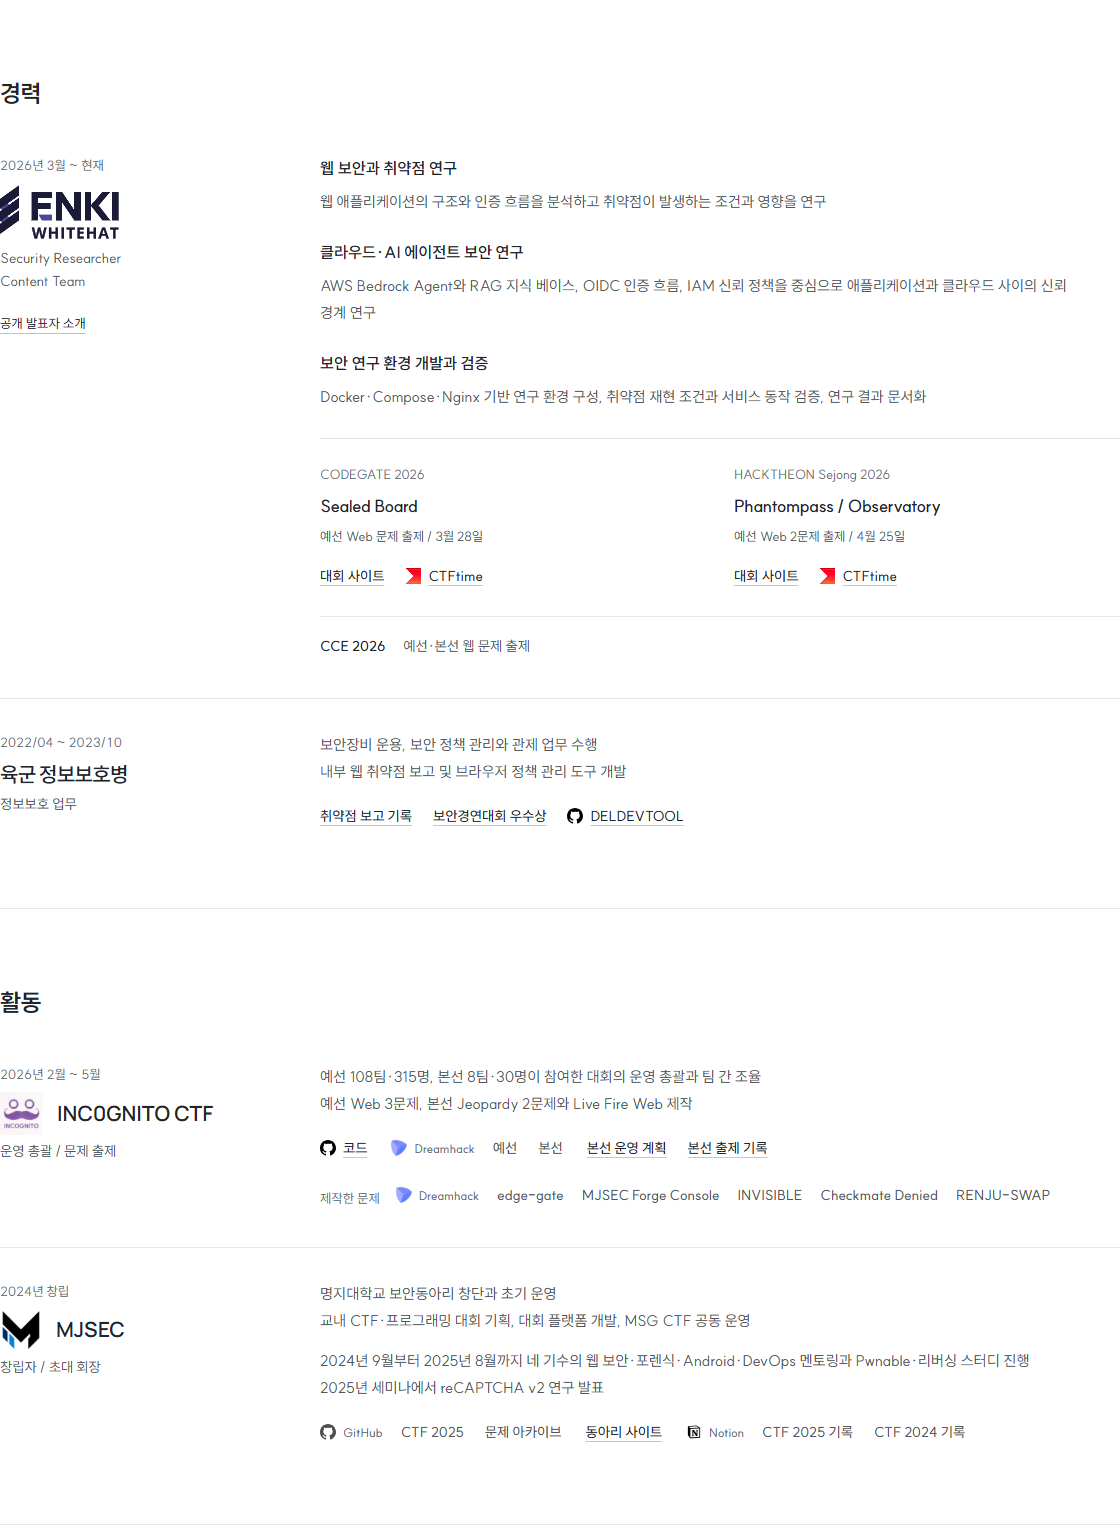
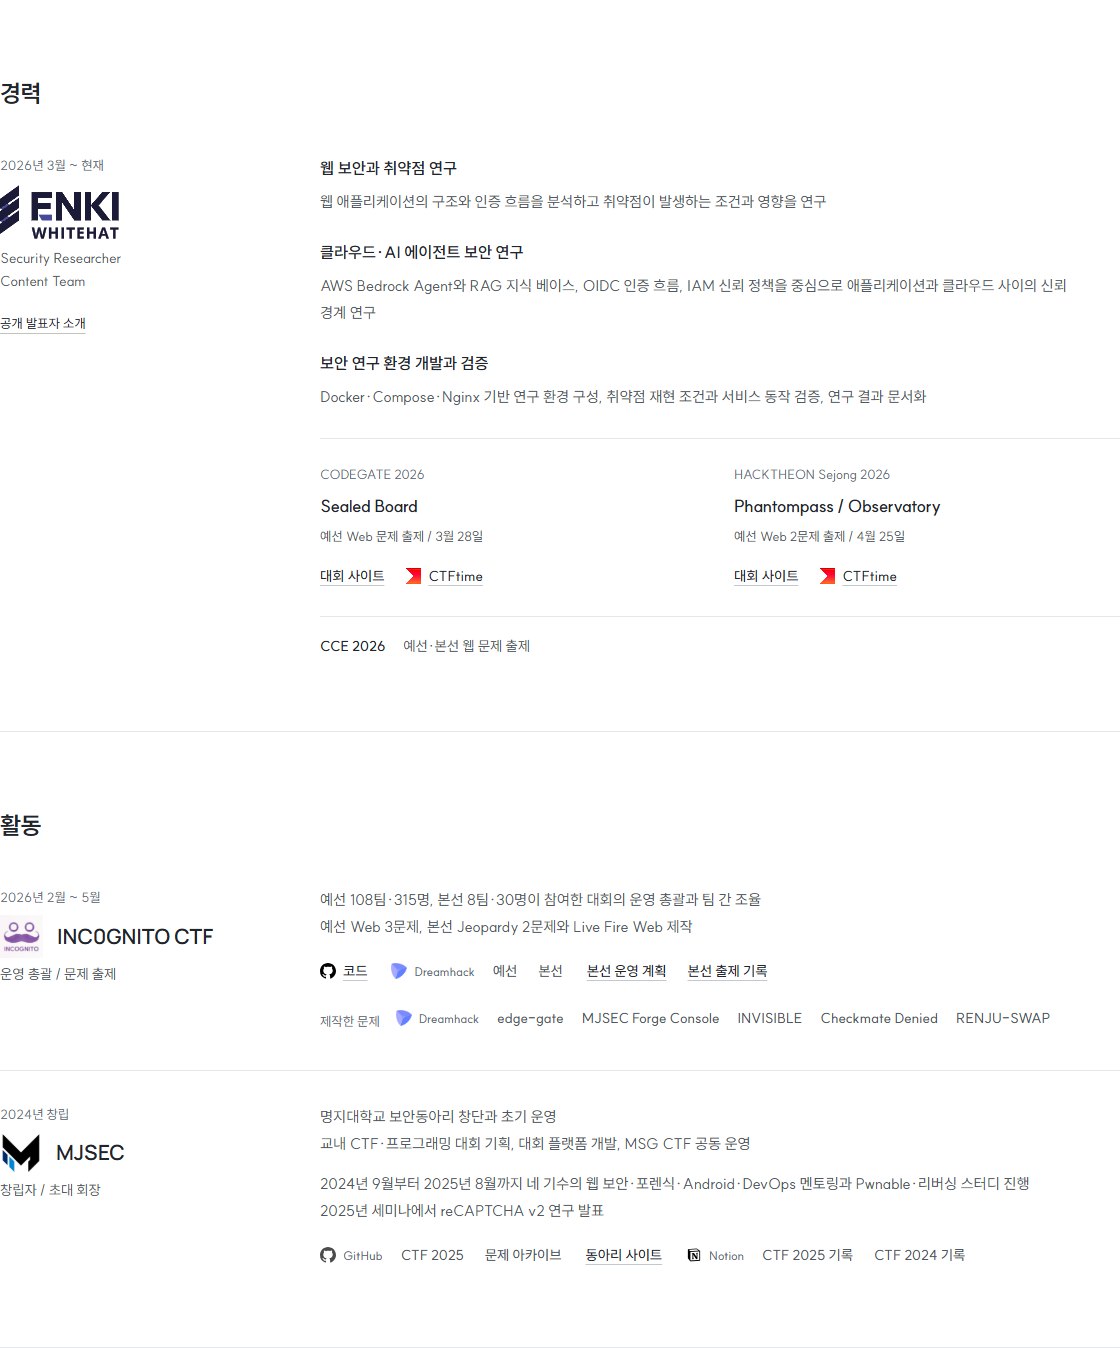
Classify army service separately from professional experience

diff --git a/assets/portfolio.css b/assets/portfolio.css
@@ -141,9 +141,6 @@ a, button, summary { -webkit-tap-highlight-color: transparent; }
 .job:last-child { padding-bottom: 0; }
 .job-heading h3 { font-size: 24px; line-height: 1.4; font-weight: 600; letter-spacing: -.03em; margin: 8px 0; }
 .job-role { color: var(--secondary); font-size: 14px; line-height: 1.7; }
-.job--compact .job-heading h3 { font-size: 21px; margin: 6px 0 4px; }
-.job--compact .job-body > p { font-size: 15px; line-height: 1.8; color: var(--secondary); word-break: keep-all; }
-.job--compact .link-row { margin-top: 11px; }
 .text-link { display: inline-flex; align-items: center; min-height: 36px; margin-top: 11px; font-size: 13px; text-decoration-color: #c0c5bb; }
 .workstreams { display: grid; gap: 23px; }
 .workstreams dt { font-size: 16px; font-weight: 600; margin-bottom: 6px; }
@@ -204,6 +201,13 @@ a, button, summary { -webkit-tap-highlight-color: transparent; }
 .education-status { font-size: 13px; font-weight: 500; color: var(--accent); }
 .toolkit dt { font-size: 14px; font-weight: 600; margin-bottom: 5px; }
 .toolkit dd { font-size: 15px; color: var(--secondary); line-height: 1.8; }
+.military-service { display: grid; grid-template-columns: 265px minmax(0, 1fr); gap: 55px; padding-block: 42px; }
+.military-heading h2 { font-size: 24px; font-weight: 700; letter-spacing: -.02em; }
+.military-heading .project-meta { margin-top: 10px; }
+.military-body h3 { font-size: 21px; font-weight: 600; letter-spacing: -.02em; }
+.military-body > p { margin-top: 12px; font-size: 15px; line-height: 1.8; color: var(--secondary); word-break: keep-all; }
+.military-body > .military-role { margin-top: 4px; font-size: 14px; color: var(--muted); }
+.military-body .link-row { margin-top: 11px; }
 .contact { display: flex; justify-content: space-between; align-items: center; gap: 25px; padding: 42px 0; border-bottom: 1px solid var(--line); }
 .contact h2 { font-size: 14px; font-weight: 400; color: var(--muted); margin-bottom: 9px; }
 .contact-email { font-family: var(--font-display); font-size: 30px; line-height: 1.4; letter-spacing: -.025em; text-decoration: none; }
@@ -218,7 +222,7 @@ a, button, summary { -webkit-tap-highlight-color: transparent; }
   .hero h1 { font-size: 66px; }
   .highlights { gap: 35px; }
   .highlights h2 { font-size: 20px; }
-  .job, .activity-row, .team-record { grid-template-columns: 215px minmax(0, 1fr); gap: 35px; }
+  .job, .activity-row, .team-record, .military-service { grid-template-columns: 215px minmax(0, 1fr); gap: 35px; }
   .feature-repositories { grid-template-columns: 90px minmax(0, 1fr); }
   .about-grid { gap: 40px; }
 }
@@ -267,6 +271,8 @@ a, button, summary { -webkit-tap-highlight-color: transparent; }
   .awards-grid .award-result { font-size: 25px; }
   .about-grid { grid-template-columns: 1fr; gap: 35px; }
   .toolkit { padding-top: 28px; border-top: 1px solid var(--line); }
+  .military-service { grid-template-columns: 1fr; gap: 20px; padding-block: 32px; }
+  .military-heading h2 { font-size: 23px; }
   .contact { align-items: flex-start; flex-direction: column; gap: 18px; padding-block: 30px; }
 }
 @media (max-width: 520px) {

diff --git a/index.html b/index.html
@@ -381,15 +381,7 @@
         </div>
       </article>
 
-      <article class="job job--compact" id="military">
-        <div class="job-heading"><p class="project-meta">2022/04 ~ 2023/10</p><h3>ROK Army</h3><p class="job-role">Information security specialist</p></div>
-        <div class="job-body">
-          <p>Operated security appliances, managed security policies and supported monitoring<br> Reported internal web vulnerabilities and developed a browser policy management utility</p>
-          <div class="link-row" aria-label="Related links"><a href="assets/achv-sec-report.png" target="_blank" rel="noopener noreferrer">Security report record</a>
-<a href="assets/award.png" target="_blank" rel="noopener noreferrer">Security competition award</a>
-<a href="https://github.com/jongcoding/DELDEVTOOL" target="_blank" rel="noopener noreferrer" aria-label="DELDEVTOOL / jongcoding/DELDEVTOOL GitHub" title="jongcoding/DELDEVTOOL GitHub" class="github-link github-link--primary"><img class="link-icon" src="assets/brands/github.svg" alt="" width="16" height="16"><span>DELDEVTOOL</span></a></div>
-        </div>
-      </article>
+
     </section>
 
     <section class="section" id="activities" aria-labelledby="activities-title">
@@ -502,6 +494,15 @@
         </dl>
       </div>
     </section>
+      <section class="section military-service" id="military" aria-labelledby="military-title">
+        <div class="military-heading"><h2 id="military-title">Military service</h2><p class="project-meta">2022/04 ~ 2023/10</p></div>
+        <div class="military-body"><h3>ROK Army</h3><p class="military-role">Information security specialist</p>
+          <p>Operated security appliances, managed security policies and supported monitoring<br> Reported internal web vulnerabilities and developed a browser policy management utility</p>
+          <div class="link-row" aria-label="Related links"><a href="assets/achv-sec-report.png" target="_blank" rel="noopener noreferrer">Security report record</a>
+<a href="assets/award.png" target="_blank" rel="noopener noreferrer">Security competition award</a>
+<a href="https://github.com/jongcoding/DELDEVTOOL" target="_blank" rel="noopener noreferrer" aria-label="DELDEVTOOL / jongcoding/DELDEVTOOL GitHub" title="jongcoding/DELDEVTOOL GitHub" class="github-link github-link--primary"><img class="link-icon" src="assets/brands/github.svg" alt="" width="16" height="16"><span>DELDEVTOOL</span></a></div>
+        </div>
+      </section>
     <section class="contact" id="contact" aria-labelledby="contact-title">
       <div><h2 id="contact-title">For research &amp; project conversations</h2><a href="mailto:ialleejy@gmail.com" aria-label="ialleejy@gmail.com" class="contact-email">ialleejy@gmail.com</a></div>
       <div class="link-row" aria-label="Contact &amp; profiles"><a href="https://github.com/jongcoding" target="_blank" rel="noopener noreferrer" aria-label="jongcoding GitHub" title="jongcoding GitHub" class="github-link github-link--primary"><img class="link-icon" src="assets/brands/github.svg" alt="" width="16" height="16"><span>GitHub</span></a>

diff --git a/index_ko.html b/index_ko.html
@@ -381,15 +381,7 @@
         </div>
       </article>
 
-      <article class="job job--compact" id="military">
-        <div class="job-heading"><p class="project-meta">2022/04 ~ 2023/10</p><h3>육군 정보보호병</h3><p class="job-role">정보보호 업무</p></div>
-        <div class="job-body">
-          <p>보안장비 운용, 보안 정책 관리와 관제 업무 수행<br> 내부 웹 취약점 보고 및 브라우저 정책 관리 도구 개발</p>
-          <div class="link-row" aria-label="관련 링크"><a href="assets/achv-sec-report.png" target="_blank" rel="noopener noreferrer">취약점 보고 기록</a>
-<a href="assets/award.png" target="_blank" rel="noopener noreferrer">보안경연대회 우수상</a>
-<a href="https://github.com/jongcoding/DELDEVTOOL" target="_blank" rel="noopener noreferrer" aria-label="DELDEVTOOL / jongcoding/DELDEVTOOL GitHub" title="jongcoding/DELDEVTOOL GitHub" class="github-link github-link--primary"><img class="link-icon" src="assets/brands/github.svg" alt="" width="16" height="16"><span>DELDEVTOOL</span></a></div>
-        </div>
-      </article>
+
     </section>
 
     <section class="section" id="activities" aria-labelledby="activities-title">
@@ -502,6 +494,15 @@
         </dl>
       </div>
     </section>
+      <section class="section military-service" id="military" aria-labelledby="military-title">
+        <div class="military-heading"><h2 id="military-title">병역</h2><p class="project-meta">2022/04 ~ 2023/10</p></div>
+        <div class="military-body"><h3>육군 정보보호병</h3><p class="military-role">정보보호 업무</p>
+          <p>보안장비 운용, 보안 정책 관리와 관제 업무 수행<br> 내부 웹 취약점 보고 및 브라우저 정책 관리 도구 개발</p>
+          <div class="link-row" aria-label="관련 링크"><a href="assets/achv-sec-report.png" target="_blank" rel="noopener noreferrer">취약점 보고 기록</a>
+<a href="assets/award.png" target="_blank" rel="noopener noreferrer">보안경연대회 우수상</a>
+<a href="https://github.com/jongcoding/DELDEVTOOL" target="_blank" rel="noopener noreferrer" aria-label="DELDEVTOOL / jongcoding/DELDEVTOOL GitHub" title="jongcoding/DELDEVTOOL GitHub" class="github-link github-link--primary"><img class="link-icon" src="assets/brands/github.svg" alt="" width="16" height="16"><span>DELDEVTOOL</span></a></div>
+        </div>
+      </section>
     <section class="contact" id="contact" aria-labelledby="contact-title">
       <div><h2 id="contact-title">연구와 프로젝트에 관한 연락</h2><a href="mailto:ialleejy@gmail.com" aria-label="ialleejy@gmail.com" class="contact-email">ialleejy@gmail.com</a></div>
       <div class="link-row" aria-label="연락처와 프로필"><a href="https://github.com/jongcoding" target="_blank" rel="noopener noreferrer" aria-label="jongcoding GitHub" title="jongcoding GitHub" class="github-link github-link--primary"><img class="link-icon" src="assets/brands/github.svg" alt="" width="16" height="16"><span>GitHub</span></a>

diff --git a/docs/content-notes.md b/docs/content-notes.md
@@ -38,7 +38,8 @@ Its authentication wall prevented direct profile review, so the relevant additio
 - Separate the seventh-place qualifier result from finals participation without implying a finals ranking
 - Describe ENKI work through web and cloud security research, vulnerability analysis and research environment engineering
 - Separate Experience from Activities in both the page structure and navigation
-- Keep ENKI WhiteHat and military information-security work under Experience, with INC0GNITO organizing and MJSEC leadership under Activities
+- Keep only ENKI WhiteHat under Experience, with INC0GNITO organizing and MJSEC leadership under Activities
+- Present military service separately after Background, preserving the service dates, responsibilities and supporting links
 - Keep CTF authorship in the named event credits rather than in the profile introduction or the general job summary
 - Present CCE 2026 as a concise Web challenge authorship line within ENKI WhiteHat, with the confirmed qualifier and finals scope and no individual challenge-name list
 - Preserve the earlier CCE participation records and 2025 write-up separately from 2026 authorship

diff --git a/docs/validation.md b/docs/validation.md
@@ -5,7 +5,8 @@
 ## Career and activities / 29 September 2026
 
 - Separate Experience and Activities sections checked in both languages at 320, 390, 768, 1024 and 1440 pixels
-- Experience contains ENKI WhiteHat and military information-security work, while Activities contains INC0GNITO and MJSEC
+- Experience contains only ENKI WhiteHat, while Activities contains INC0GNITO and MJSEC
+- Military service has a separate labelled section after Background, retaining the service dates, responsibilities and supporting links
 - CODEGATE, HACKTHEON and CCE authorship remain inside ENKI's work, and all existing content and evidence links remain available
 - Four section-navigation links stay visible on phones, with the brand and language switch above them
 - Both new and existing section destinations clear the sticky header, with no horizontal overflow, duplicate IDs, missing images or browser errors

diff --git a/README.md b/README.md
@@ -10,7 +10,8 @@ Personal portfolio for web and cloud security research, CTF infrastructure, and 
 Static HTML and CSS with no build dependencies
 A small optional script controls the project previews, while content and navigation work without JavaScript
 Professional experience and community activities have separate sections and navigation links
-ENKI WhiteHat and military security work appear under Experience, followed by INC0GNITO and MJSEC under Activities
+ENKI WhiteHat appears under Experience, followed by INC0GNITO and MJSEC under Activities
+Military service has its own section after Background and is not listed as professional experience
 
 ```sh
 python -m http.server 8000 --bind 127.0.0.1
